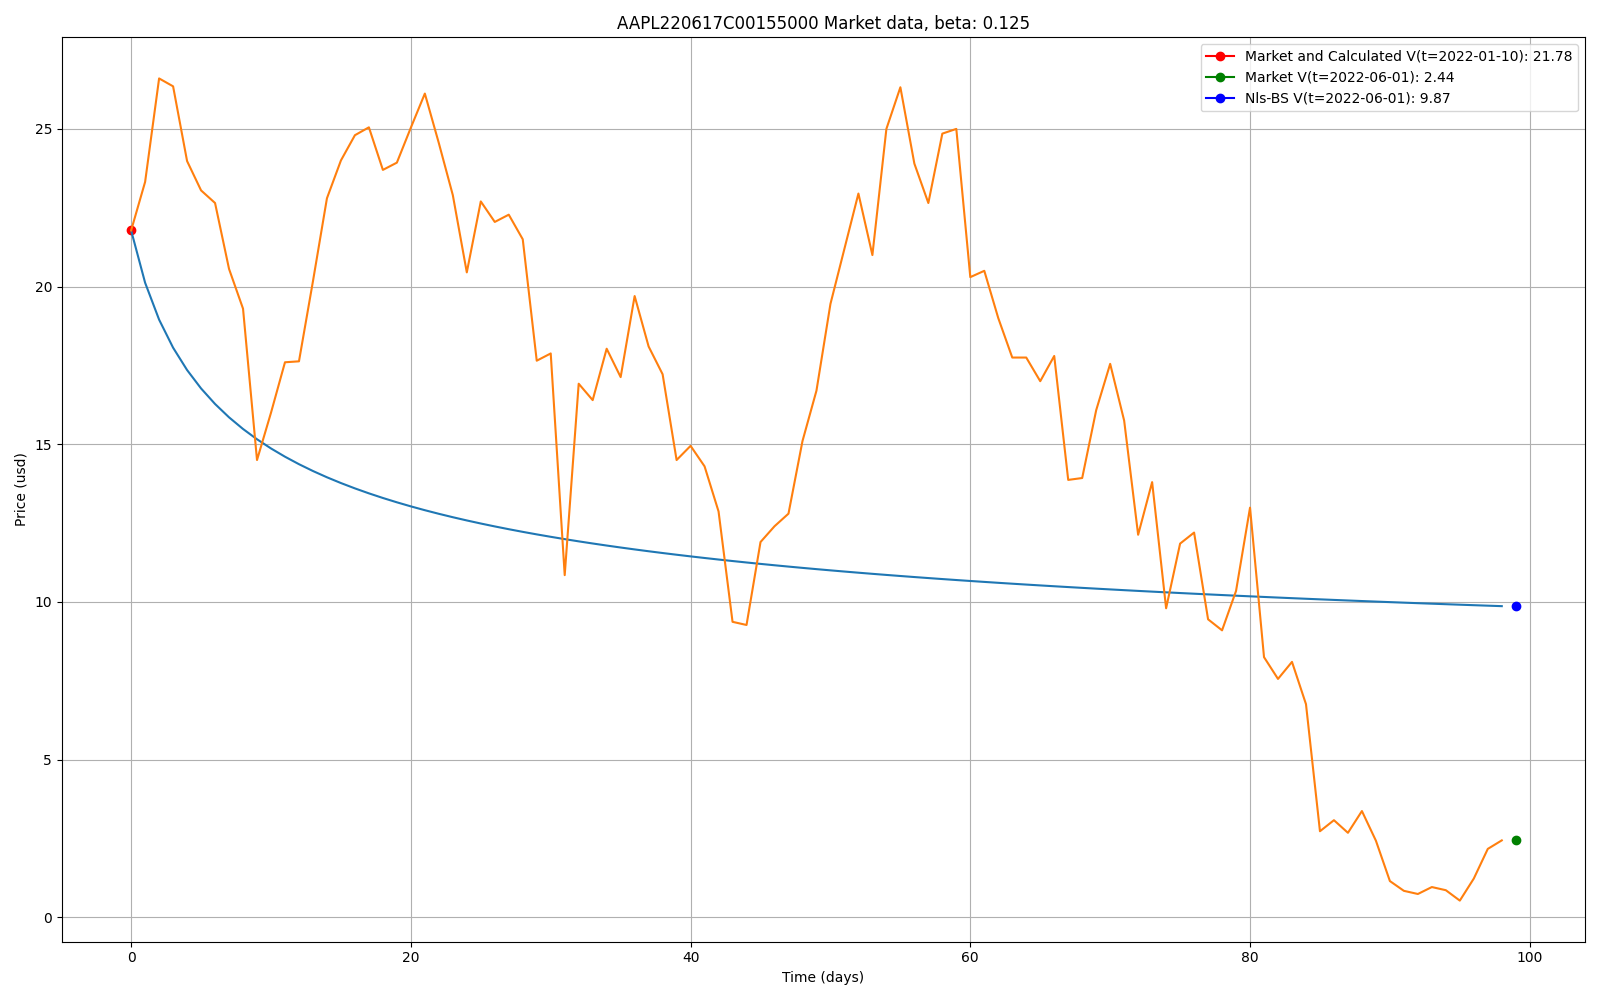
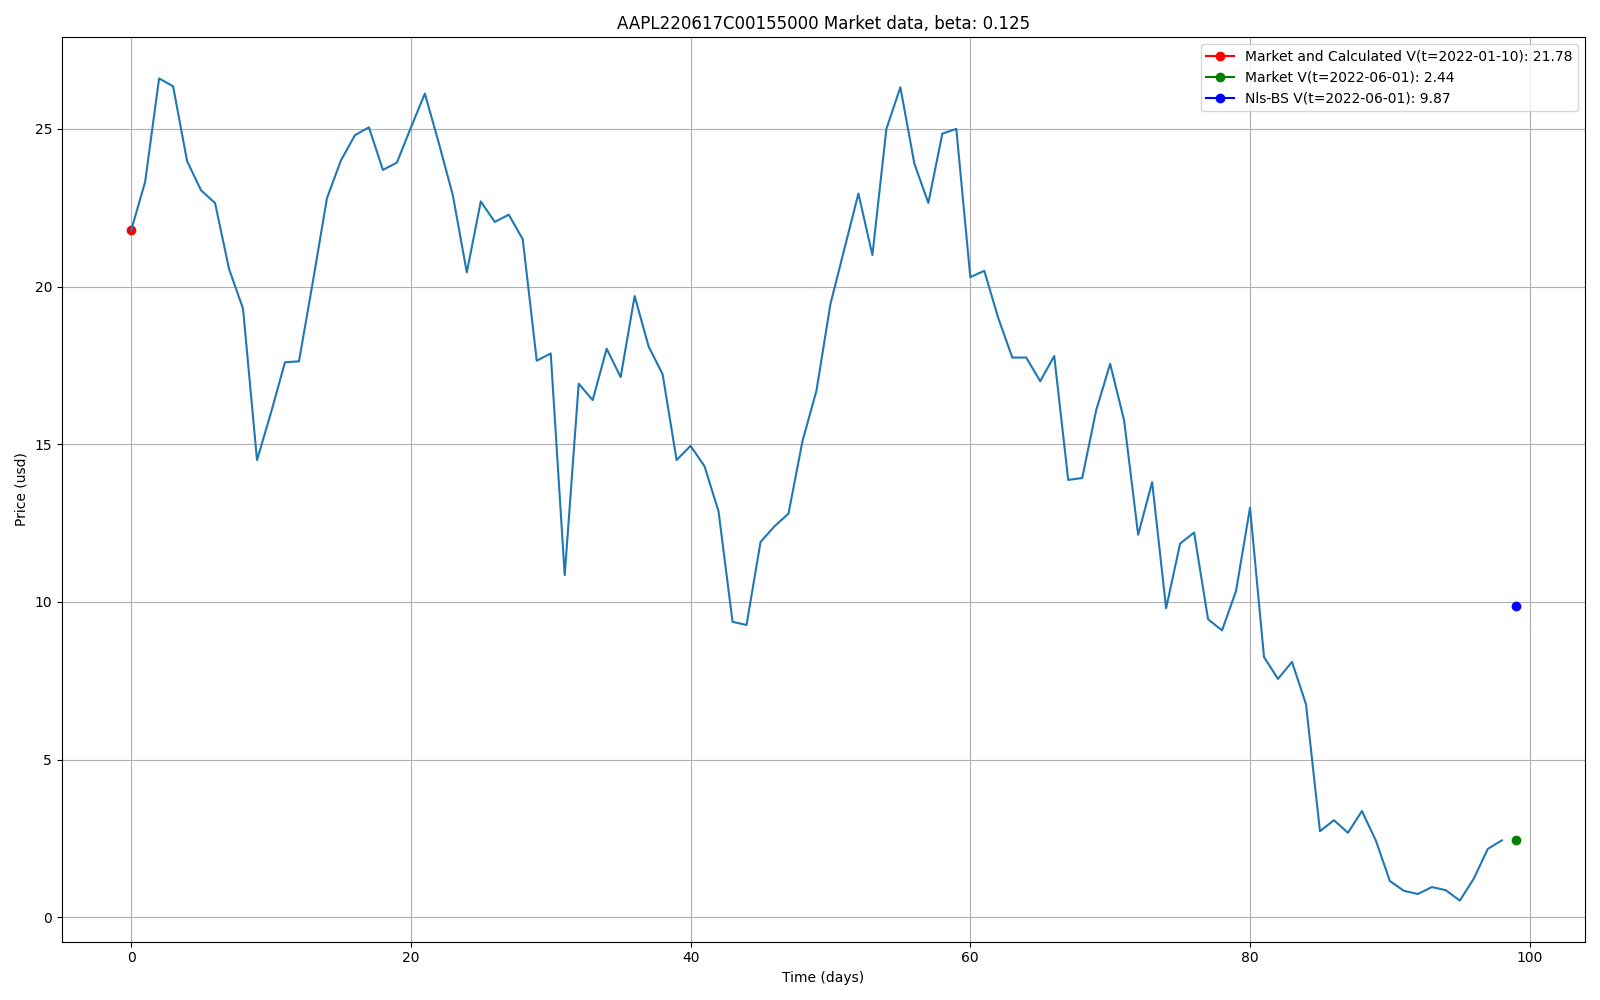
Fitting american options

diff --git a/option_pricing/optionlib/american_options_trader.py b/option_pricing/optionlib/american_options_trader.py
@@ -31,12 +31,99 @@ class AmericanOptions(object):
         self.db_cursor = self.db_conn.cursor()
         expiration_date = self.option[4:10]
         self.expiration_date = '20{}-{}-{}'.format(expiration_date[:2], expiration_date[2:4],
-                                                       expiration_date[4:])
+                                                   expiration_date[4:])
         self.option_type = 'Call' if self.option[10] == 'C' else 'Put'
         self.K = float('{}.{}'.format(self.option[13:16], self.option[16:]))
         self.data = {}
         channel = grpc.insecure_channel('localhost:9000')
         self.grpc_client = stub.OptionPricingStub(channel=channel)
+
+    def calculate_option_data_divided(self, multiplied_by):
+        """
+        Calculation data for given option.
+        """
+        data = self.load_data()
+        stock_open_prices = []
+        option_open_prices = []
+        dates = []
+        for e in data:
+            date = e[1]
+            option_openning_price = e[2]
+            stock_openning_price = e[3]
+            dates.append(date)
+            option_open_prices.append(float(option_openning_price))
+            stock_open_prices.append(float(stock_openning_price))
+
+        T = self._days_between_dates(dates[0], dates[-1])
+        volatility = self._calculate_volatility(stock_open_prices, T)
+        num_of_days = int(len(option_open_prices) / multiplied_by)
+        divided_option_prices_for_given_s0 = []
+        betas = []
+        try:
+            for index in range(num_of_days, multiplied_by * num_of_days, num_of_days):
+                option_open_prices_part = option_open_prices[index - num_of_days:index]
+                stock_open_prices_part = stock_open_prices[index - num_of_days:index]
+                out = self.calculate_nonlinear_bs(num_of_days,
+                                                  option_open_prices_part[-1],
+                                                  stock_open_prices_part,
+                                                  volatility, 0.0)
+                calculated_beta = out['calculated_beta']
+                calculated_values = out['calculated_price_3d']
+                price_index = out['price_index']
+                option_prices_for_given_s0 = calculated_values.U[price_index].Ut[0:num_of_days]
+                divided_option_prices_for_given_s0.extend(option_prices_for_given_s0)
+                betas.append(calculated_beta)
+        except Exception:
+            pass
+
+        fig1, (ax1, ax2, ax3) = plt.subplots(3, 1, figsize=(16, 10), facecolor='w')
+        ax1.grid()
+        ax1.set(xlabel='Time (days)', ylabel='Price (usd)', title='{} Market and computed data, stock volatility: {:.3f}'.
+                format(self.option.upper(), volatility))
+
+        ax1.plot(option_open_prices[0], marker='o', markersize=6, color="red",
+                 label='Market V(t={}): {:.2f}'.format(dates[0], option_open_prices[0]))
+        ax1.plot(0, divided_option_prices_for_given_s0[0], marker='o',
+                 markersize=6, color="black",
+                 label='Calculated V(t={}): {:.2f}'.format(dates[0],
+                                                           divided_option_prices_for_given_s0[0]))
+        ax1.plot(len(divided_option_prices_for_given_s0) - 1,
+                 option_open_prices[len(divided_option_prices_for_given_s0) - 1], marker='o', markersize=6,
+                 color="green",
+                 label='Market V(t={}): {:.2f}'.format(dates[len(divided_option_prices_for_given_s0) - 1],
+                                                       option_open_prices[len(divided_option_prices_for_given_s0) - 1]))
+        ax1.plot(len(divided_option_prices_for_given_s0) - 1, divided_option_prices_for_given_s0[-1], marker='o',
+                 markersize=6, color="blue",
+                 label='Calculated V(t={}): {:.2f}'.format(dates[len(divided_option_prices_for_given_s0) - 1],
+                                                           divided_option_prices_for_given_s0[-1]))
+
+        ax1.plot(divided_option_prices_for_given_s0, marker='', markersize=6,
+                 color="magenta")
+        ax1.plot(option_open_prices[0:len(divided_option_prices_for_given_s0)], marker='', markersize=6,
+                 color="black")
+        ax1.legend(loc='upper left', shadow=False)
+        ax1.legend(frameon=True)
+        ax2.grid()
+        for i in range(len(betas)):
+            ax2.plot(dates[i * num_of_days:i * num_of_days + num_of_days], [betas[i] for _ in range(num_of_days)],
+                     label='Calculated beta: {:.3f}'.format(betas[i]))
+        ax2.xaxis.set_ticks([])
+        ax2.legend(loc='upper left', shadow=False)
+        ax2.legend(frameon=True)
+        ax3.grid()
+        ax3.plot(stock_open_prices[0:len(divided_option_prices_for_given_s0)],
+                 label='Stock price', marker='', markersize=6,
+                 color="black",)
+        ax3.xaxis.set_ticks([])
+        ax3.set(ylabel='Price (usd)', title='{} Market data'.
+                format(self.stock.upper()))
+        for i in range(0, 3 * num_of_days, num_of_days):
+            ax3.plot(i, stock_open_prices[i], marker='o', markersize=6,
+                     label='Stock price {:.3f} at {}'.format(stock_open_prices[i], dates[i]))
+        ax3.legend(loc='upper left', shadow=False)
+        ax3.legend(frameon=True)
+        fig1.tight_layout()
+        plt.savefig("{}/{}_divided.png".format(".", self.option))
 
     def calculate_option_data(self):
         """
@@ -55,8 +142,9 @@ class AmericanOptions(object):
             stock_open_prices.append(float(stock_openning_price))
 
         T = self._days_between_dates(dates[0], dates[-1])
-        stock_open_prices[-1] = self.K
         volatility = self._calculate_volatility(stock_open_prices, T)
+
+        # stock_open_prices[-1] = self.K
         option_price_from_last_day = option_open_prices[-1]
         out = self.calculate_nonlinear_bs(T, option_price_from_last_day, stock_open_prices, volatility, 0.0)
         calculated_beta = out['calculated_beta']
@@ -77,7 +165,6 @@ class AmericanOptions(object):
         ax1.plot(len(option_open_prices), shifted_prices_for_given_s0[-1], marker='o', markersize=6, color="blue",
                  label='Nls-BS V(t={}): {:.2f}'.format(dates[-1], shifted_prices_for_given_s0[-1]))
 
-        ax1.plot(shifted_prices_for_given_s0)
         ax1.plot(option_open_prices)
         ax1.legend(loc='upper left', shadow=False)
         ax1.legend(frameon=True)
@@ -198,7 +285,7 @@ class AmericanOptions(object):
     def calculate_nonlinear_bs(self, T, option_price_from_boundary_conditions, stock_open_prices, volatility, beta):
         """
         Make grpc connection and calculate
-        :param T:
+        :param T: expiry time in days
         :param beta: 0 means that it we will calibrate, otherwise we will calculate for the given number
         :param option_price_from_boundary_conditions:
         :param stock_open_prices:
@@ -210,7 +297,7 @@ class AmericanOptions(object):
         request.maxPrice = 200
         request.volatility = volatility
         request.r = self.r
-        request.tMax = 0.7
+        request.tMax = (1.0 / DAYS_IN_YEAR) * (T + 10)
         request.strikePrice = self.K
         request.calculationType = 'NonLinear'
         request.beta = beta
@@ -286,4 +373,5 @@ if __name__ == '__main__':
     # a = AmericanOptions("APPL", "AAPL220617C00143000", 0.03, "/Users/marcinwroblewski/GolandProjects/optionpricing/american.db")
     a = AmericanOptions("APPL", "AAPL220617C00155000", 0.03,
                         "/Users/marcinwroblewski/GolandProjects/optionpricing/american.db")
-    a.calculate_option_data()
+    a.calculate_option_data_divided(4)
+    # a.calculate_option_data()

diff --git a/compute/utils.go b/compute/utils.go
@@ -8,23 +8,23 @@ const (
 	European     = "European"
 	American     = "American"
 	spatialSteps = 100
-	leftBeta     = -0.25
-	rightBeta    = 0.25
+	leftBeta     = -0.025
+	rightBeta    = 0.025
 )
 
-func FromStructToMatrix(UxtOut *stubs.UxtSlice) [][]float64 {
+func FromStructToMatrix(uxtOut *stubs.UxtSlice) [][]float64 {
 	convertedU := make([][]float64, 0)
-	for _, u := range UxtOut.U {
+	for _, u := range uxtOut.U {
 		convertedU = append(convertedU, u.Ut)
 	}
 
 	return convertedU
 }
 
-func FromMatrixToStruct(Uxt [][]float64, calculatedPrice float64, calculatedDays int32, calculatedAssetPrice, calculatedBeta float64, priceIndexForS0 int32) *stubs.UxtSlice {
+func FromMatrixToStruct(uxt [][]float64, calculatedPrice float64, calculatedDays int32, calculatedAssetPrice, calculatedBeta float64, priceIndexForS0 int32) *stubs.UxtSlice {
 	uSlice := make([]*stubs.Uxt, 0)
 
-	for _, u := range Uxt {
+	for _, u := range uxt {
 		utStruct := stubs.Uxt{Ut: u}
 		uSlice = append(uSlice, &utStruct)
 	}
